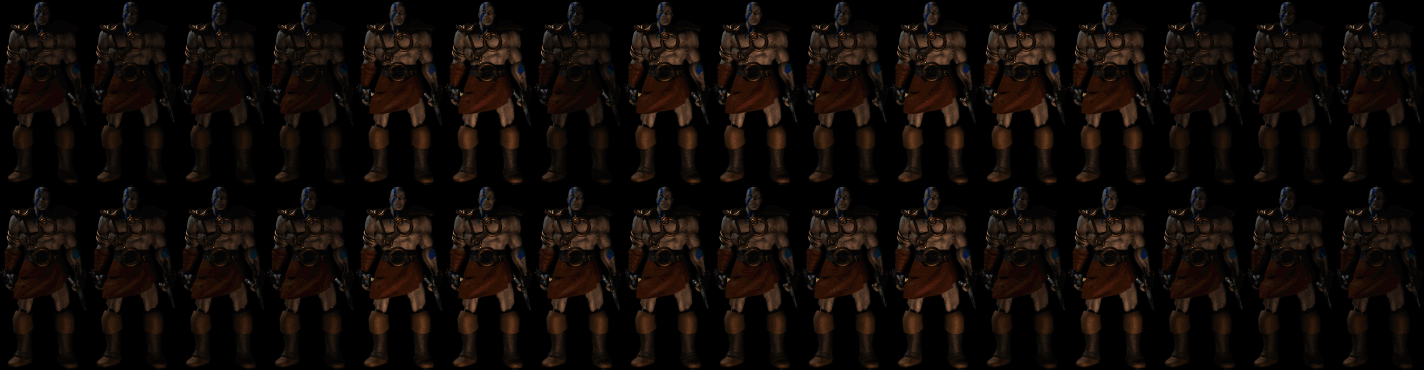
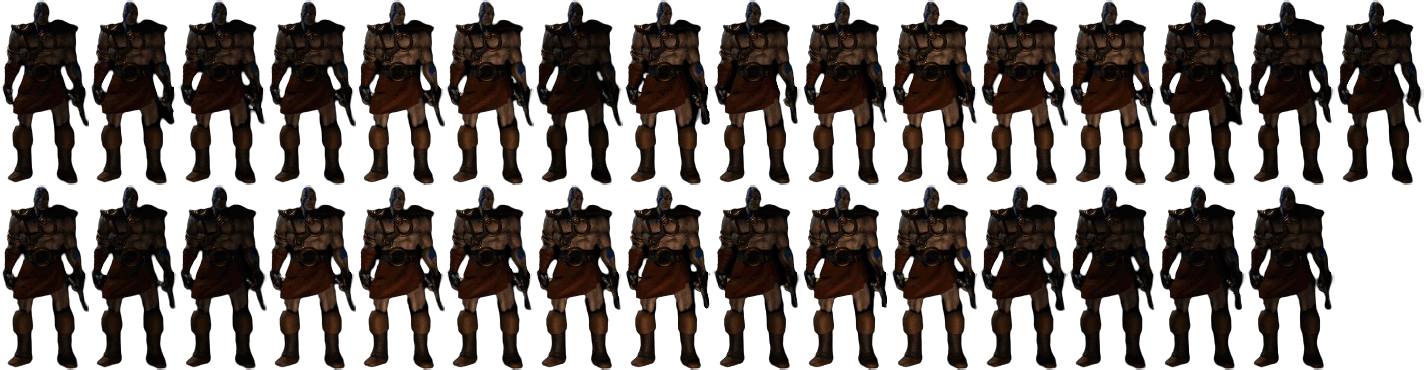
暗黑开门loading画面加入

diff --git a/engine/game.go b/engine/game.go
@@ -49,6 +49,8 @@ var (
 	flg             bool = false
 	frameSpeed      int  = 5
 	changeScenceFlg bool = false
+	doorCountFlg    bool = false
+	loadingFlg      bool = false
 )
 var op, opS, opMouse, opWea, opSkill *ebiten.DrawImageOptions
 
@@ -110,6 +112,12 @@ func (g *Game) ChangeScene(name string) {
 		g.ui.LoadGameCharaSelectImages()
 		runtime.GC()
 
+	} else if name == "loading" {
+		g.currentGameScence = GAMESCENEOPENDOOR
+		//GC
+		g.ui.ClearSlice(0)
+		g.ui.ClearGlobalVariable()
+
 	} else if name == "game" {
 		g.currentGameScence = GAMESCENESTART
 		w := sync.WaitGroup{}
@@ -139,11 +147,10 @@ func (g *Game) ChangeScene(name string) {
 
 }
 func (g *Game) Update() error {
-	g.count++
 	mouseX, mouseY = ebiten.CursorPosition()
 	if ebiten.IsMouseButtonPressed(ebiten.MouseButtonLeft) && changeScenceFlg == false {
 		if g.currentGameScence == GAMESCENELOGIN {
-			if mouseX > 134 && mouseX < 148 && mouseY > 273 && mouseY < 287 {
+			if mouseX > 286 && mouseX < 503 && mouseY > 150 && mouseY < 218 {
 				g.currentGameScence = GAMESCENESELECTROLE
 				changeScenceFlg = true
 				w := sync.WaitGroup{}
@@ -157,24 +164,20 @@ func (g *Game) Update() error {
 			}
 
 		} else if g.currentGameScence == GAMESCENESELECTROLE {
-			if mouseX > 359 && mouseX < 432 && mouseY > 149 && mouseY < 218 {
+			if mouseX > 684 && mouseX < 759 && mouseY > 390 && mouseY < 470 {
 				changeScenceFlg = true
-				g.currentGameScence = GAMESCENESTART
-				w := sync.WaitGroup{}
-				w.Add(1)
-				go func() {
-					g.ChangeScene("game")
-					w.Done()
-				}()
-				w.Wait()
+				g.currentGameScence = GAMESCENEOPENDOOR
 				changeScenceFlg = false
 			}
 		}
 	}
+
 	//check
 	if changeScenceFlg == false {
 		if g.currentGameScence == GAMESCENESTART {
 			g.changeScenceGameUpdate()
+		} else if g.currentGameScence == GAMESCENEOPENDOOR {
+			g.ChangeScenceOpenDoorUpdate()
 		} else {
 			g.ChangeScenceLoginUpdate()
 		}
@@ -191,6 +194,8 @@ func (g *Game) Draw(screen *ebiten.Image) {
 			g.ChangeScenceGameDraw(screen)
 		} else if g.currentGameScence == GAMESCENESELECTROLE {
 			g.ChangeScenceSelectDraw(screen)
+		} else if g.currentGameScence == GAMESCENEOPENDOOR {
+			g.ChangeScenceOpenDoorDraw(screen)
 		} else {
 			g.ChangeScenceLoginDraw(screen)
 		}
@@ -209,6 +214,7 @@ func (g *Game) Layout(outsideWidth, outsideHeight int) (screenWidth, screenHeigh
 
 //Draw Game Update
 func (g *Game) changeScenceGameUpdate() {
+	g.count++
 	if g.player.State != tools.ATTACK {
 		g.player.State = tools.IDLE
 	}
@@ -340,7 +346,6 @@ func (g *Game) ChangeScenceGameDraw(screen *ebiten.Image) {
 //Draw Login Update
 func (g *Game) ChangeScenceLoginUpdate() {
 	g.count++
-
 	//Change Frame
 	if g.count > frameSpeed {
 		counts++
@@ -409,11 +414,50 @@ func (g *Game) ChangeScenceSelectDraw(screen *ebiten.Image) {
 	opBa := &ebiten.DrawImageOptions{}
 	opBa.Filter = ebiten.FilterLinear
 	opBa.GeoM.Translate(356, 120)
-	opBa.CompositeMode = ebiten.CompositeModeLighter
-	opf.GeoM.Scale(1, 0.7)
 	screen.DrawImage(ba, opBa)
 
 	//Draw Debug
-	ebitenutil.DebugPrint(screen, fmt.Sprintf("FPS %d\nmouse position %d,%d",
-		int64(ebiten.CurrentFPS()), mouseX, mouseY))
+	ebitenutil.DebugPrint(screen, fmt.Sprintf("FPS %d\nmouse position %d,%d", int64(ebiten.CurrentFPS()), mouseX, mouseY))
+}
+
+//Draw OpenDoor Scence
+func (g *Game) ChangeScenceOpenDoorDraw(screen *ebiten.Image) {
+	//Draw Open Door
+	name := "loading_" + strconv.Itoa(counts) + ".png"
+	door, _, _ := g.ui.GetAnimator("logo", name)
+	op := &ebiten.DrawImageOptions{}
+	op.Filter = ebiten.FilterLinear
+	op.GeoM.Translate(268, 120)
+	screen.DrawImage(door, op)
+
+	//Draw Debug
+	ebitenutil.DebugPrint(screen, fmt.Sprintf("FPS %d\nmouse position %d,%d", int64(ebiten.CurrentFPS()), mouseX, mouseY))
+}
+
+//Draw OpenDoor Update
+func (g *Game) ChangeScenceOpenDoorUpdate() {
+	if doorCountFlg == false {
+		counts = 0
+		doorCountFlg = true
+	}
+	g.count++
+	//Change Frame
+	if g.count > 10 && counts != 9 {
+		counts++
+		g.count = 0
+	}
+
+	// Change Scence
+	if counts == 9 && loadingFlg == false {
+		loadingFlg = true
+		g.currentGameScence = GAMESCENESTART
+		w := sync.WaitGroup{}
+		w.Add(1)
+		go func() {
+			g.ChangeScene("game")
+			w.Done()
+		}()
+		w.Wait()
+		changeScenceFlg = false
+	}
 }

diff --git a/layout/ui.go b/layout/ui.go
@@ -12,8 +12,7 @@ import (
 	"github.com/hajimehoshi/ebiten/v2"
 )
 
-var plist_png *image.NRGBA
-var plist_R_png *image.Paletted
+var plist_png, plist_R_png *image.NRGBA
 var plist_sheet, plist_R_sheet *texturepacker.SpriteSheet
 
 //Create UI Class
@@ -289,7 +288,7 @@ func (u *UI) LoadGameCharaSelectImages() {
 	go func() {
 		plist, _ := u.image.ReadFile("resource/UI/selectRoles.png")
 		plist_json, _ := u.image.ReadFile("resource/UI/selectRoles.json")
-		plist_R_sheet, plist_R_png = tools.GetImageFromPlistPaletted(plist, plist_json)
+		plist_R_sheet, plist_R_png = tools.GetImageFromPlist(plist, plist_json)
 		w.Done()
 	}()
 	w.Wait()
@@ -300,10 +299,17 @@ func (u *UI) LoadGameCharaSelectImages() {
 }
 
 func (u *UI) GetAnimator(flg, name string) (*ebiten.Image, int, int) {
+	defer func() {
+		if r := recover(); r != nil {
+			fmt.Println(r)
+		}
+	}()
 	if flg == "role" {
+
 		return ebiten.NewImageFromImage(plist_R_png.SubImage(plist_R_sheet.Sprites[name].Frame)), plist_R_sheet.Sprites[name].SpriteSourceSize.Min.X, plist_R_sheet.Sprites[name].SpriteSourceSize.Min.Y
 
 	} else {
+
 		return ebiten.NewImageFromImage(plist_png.SubImage(plist_sheet.Sprites[name].Frame)), plist_sheet.Sprites[name].SpriteSourceSize.Min.X, plist_sheet.Sprites[name].SpriteSourceSize.Min.Y
 	}
 }
@@ -336,4 +342,10 @@ func (u *UI) EventLoop() {
 		}
 	}
 
+}
+
+//GC for loading
+func (u *UI) ClearGlobalVariable() {
+	plist_R_sheet = nil
+	plist_R_png = nil
 }
